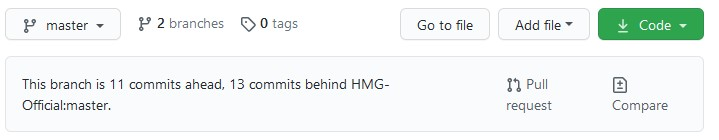
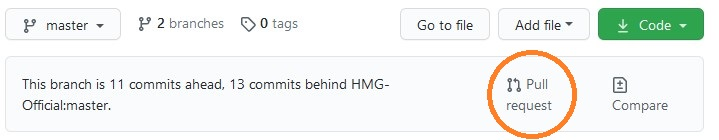
upd

Changed region(s): [[0.6732, 0.3429, 0.8261, 1.0]]

diff --git a/README.md b/README.md
@@ -200,11 +200,11 @@ What to do when you want to add to your fork the changes in the master.
 
 From this window you can select the branch to work or create a new one.
 
-[![image](https://github.com/asistex/github_tips/raw/main/btn_branch.jpg)]())
-
 Type on `Find or create a branch..` the name of a new branch.
 
 **`Make sure your branch name wasn't used before`** - you can add date (for example `branch_20201120`) to ensure its uniqueness.
+
+[![image](https://github.com/asistex/github_tips/raw/main/btn_branch.jpg)]())
 
 
 [Go Init](#init)
@@ -218,12 +218,47 @@ Type on `Find or create a branch..` the name of a new branch.
 [Go Init](#init)
 
 4 ofi ass
+To make a **Pull Request** click on button `Pull Request`
+
+[![image](https://github.com/asistex/github_tips/raw/main/btn_pr.jpg)]()
+
+Now you'll see something like this:
+
+[![image](https://github.com/asistex/github_tips/raw/main/compare3.jpg)]()
+
+And with the link **`Compare across forks`** you can select from and where to make the **Pull Request**.
+
+Take a look at the arrow. That means from the right to the left. So in this case:
+
+[![image](https://github.com/asistex/github_tips/raw/main/compare4.jpg)]()
+
+You'll gonna update `asistex/hmg` branch `master` from `HMG-Official/HMG` branch `master`
+
+Click on **`Compare across forks`** to change
+
+    **base repository**:  and  **base**:branch
+    **head repository**:  and  **compare**:branch
+
+After you are sure about what to do, you'll see a list of files changed with the diff in red and green. Check it and then click on **Create a Pull Request**
+
+After that:
+
+Fill the title and the form with info about pull request and click on **Create a Pull Request**
+
+If you are making a pull request to another fork then all was done.
+
+If you are updating your fork from another fork then click on **Merge pull request** and
+** Confirm merge**
+
+[Go Init](#init)
 
 
-[![image](https://github.com/asistex/github_tips/raw/main/btn_pr.jpg)]())
 
 
-[How to select from where and to where make the **pull request**](#fromto)
+---
+This document Copyright &copy;&nbsp;2020&ndash;present [asistex](https://github.com/asistex/)<br>
+[![Creative Commons Attribution-ShareAlike 4.0](https://mirrors.creativecommons.org/presskit/buttons/80x15/svg/by-sa.svg)](https://creativecommons.org/licenses/by-sa/4.0/)
+
 
 
 
